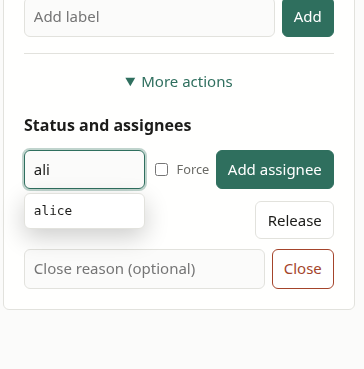
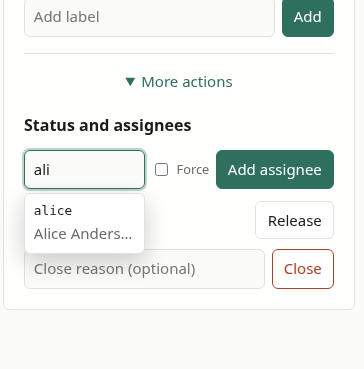
Show full names in assignee suggestions

Changed region(s): [[0.0604, 0.5962, 0.3929, 0.6558], [0.0907, 0.6856, 0.3929, 0.7154], [0.0604, 0.6558, 0.0907, 0.6856]]

diff --git a/web/ts/app.ts b/web/ts/app.ts
@@ -1568,8 +1568,21 @@ function lifecycleEditor(issue: Issue): HTMLElement {
   assignee.placeholder = identity === "" ? "Assignee" : `Assignee (default: ${identity})`;
   assignee.setAttribute("aria-label", "Assignee");
   const assigneeAutocomplete = attachAutocomplete(assignee, async (query, signal) => {
-    const page = await api.projectMembers(issue.project, signal);
-    return matchingValues(page.rows.map((member) => member.user), query, issue.assignees);
+    const [members, users] = await Promise.all([
+      api.projectMembers(issue.project, signal),
+      api.users({}, signal),
+    ]);
+    const memberNames = new Set(members.rows.map((member) => member.user));
+    const assigned = new Set(issue.assignees);
+    const needle = query.trim().toLocaleLowerCase();
+    return users.rows.filter((user) => memberNames.has(user.name) && !assigned.has(user.name)
+      && `${user.name} ${user.full_name}`.toLocaleLowerCase().includes(needle))
+      .slice(0, 8)
+      .map((user) => ({
+        value: user.name,
+        label: user.name,
+        detail: user.full_name === "" ? undefined : user.full_name,
+      }));
   });
   const forceLabel = element("label", "check-field");
   const force = document.createElement("input");

diff --git a/web/ts/api.ts b/web/ts/api.ts
@@ -251,7 +251,8 @@ export const api = {
   projects: (filters: ProjectFilters = {}) => getPage<Project>(`api/projects${toQuery(filters)}`),
   projectMembers: (key: string, signal?: AbortSignal) =>
     getPage<Membership>(`api/projects/${encodeURIComponent(key)}/members`, { signal }),
-  users: (filters: UserFilters = {}) => getPage<DirectoryUser>(`api/users${toQuery(filters)}`),
+  users: (filters: UserFilters = {}, signal?: AbortSignal) =>
+    getPage<DirectoryUser>(`api/users${toQuery(filters)}`, { signal }),
   project: (key: string) => getOne<Project>(`api/projects/${encodeURIComponent(key)}`),
   updateProject: (key: string, patch: ProjectPatch) =>
     patchOne<Project>(`api/projects/${encodeURIComponent(key)}`, patch),
